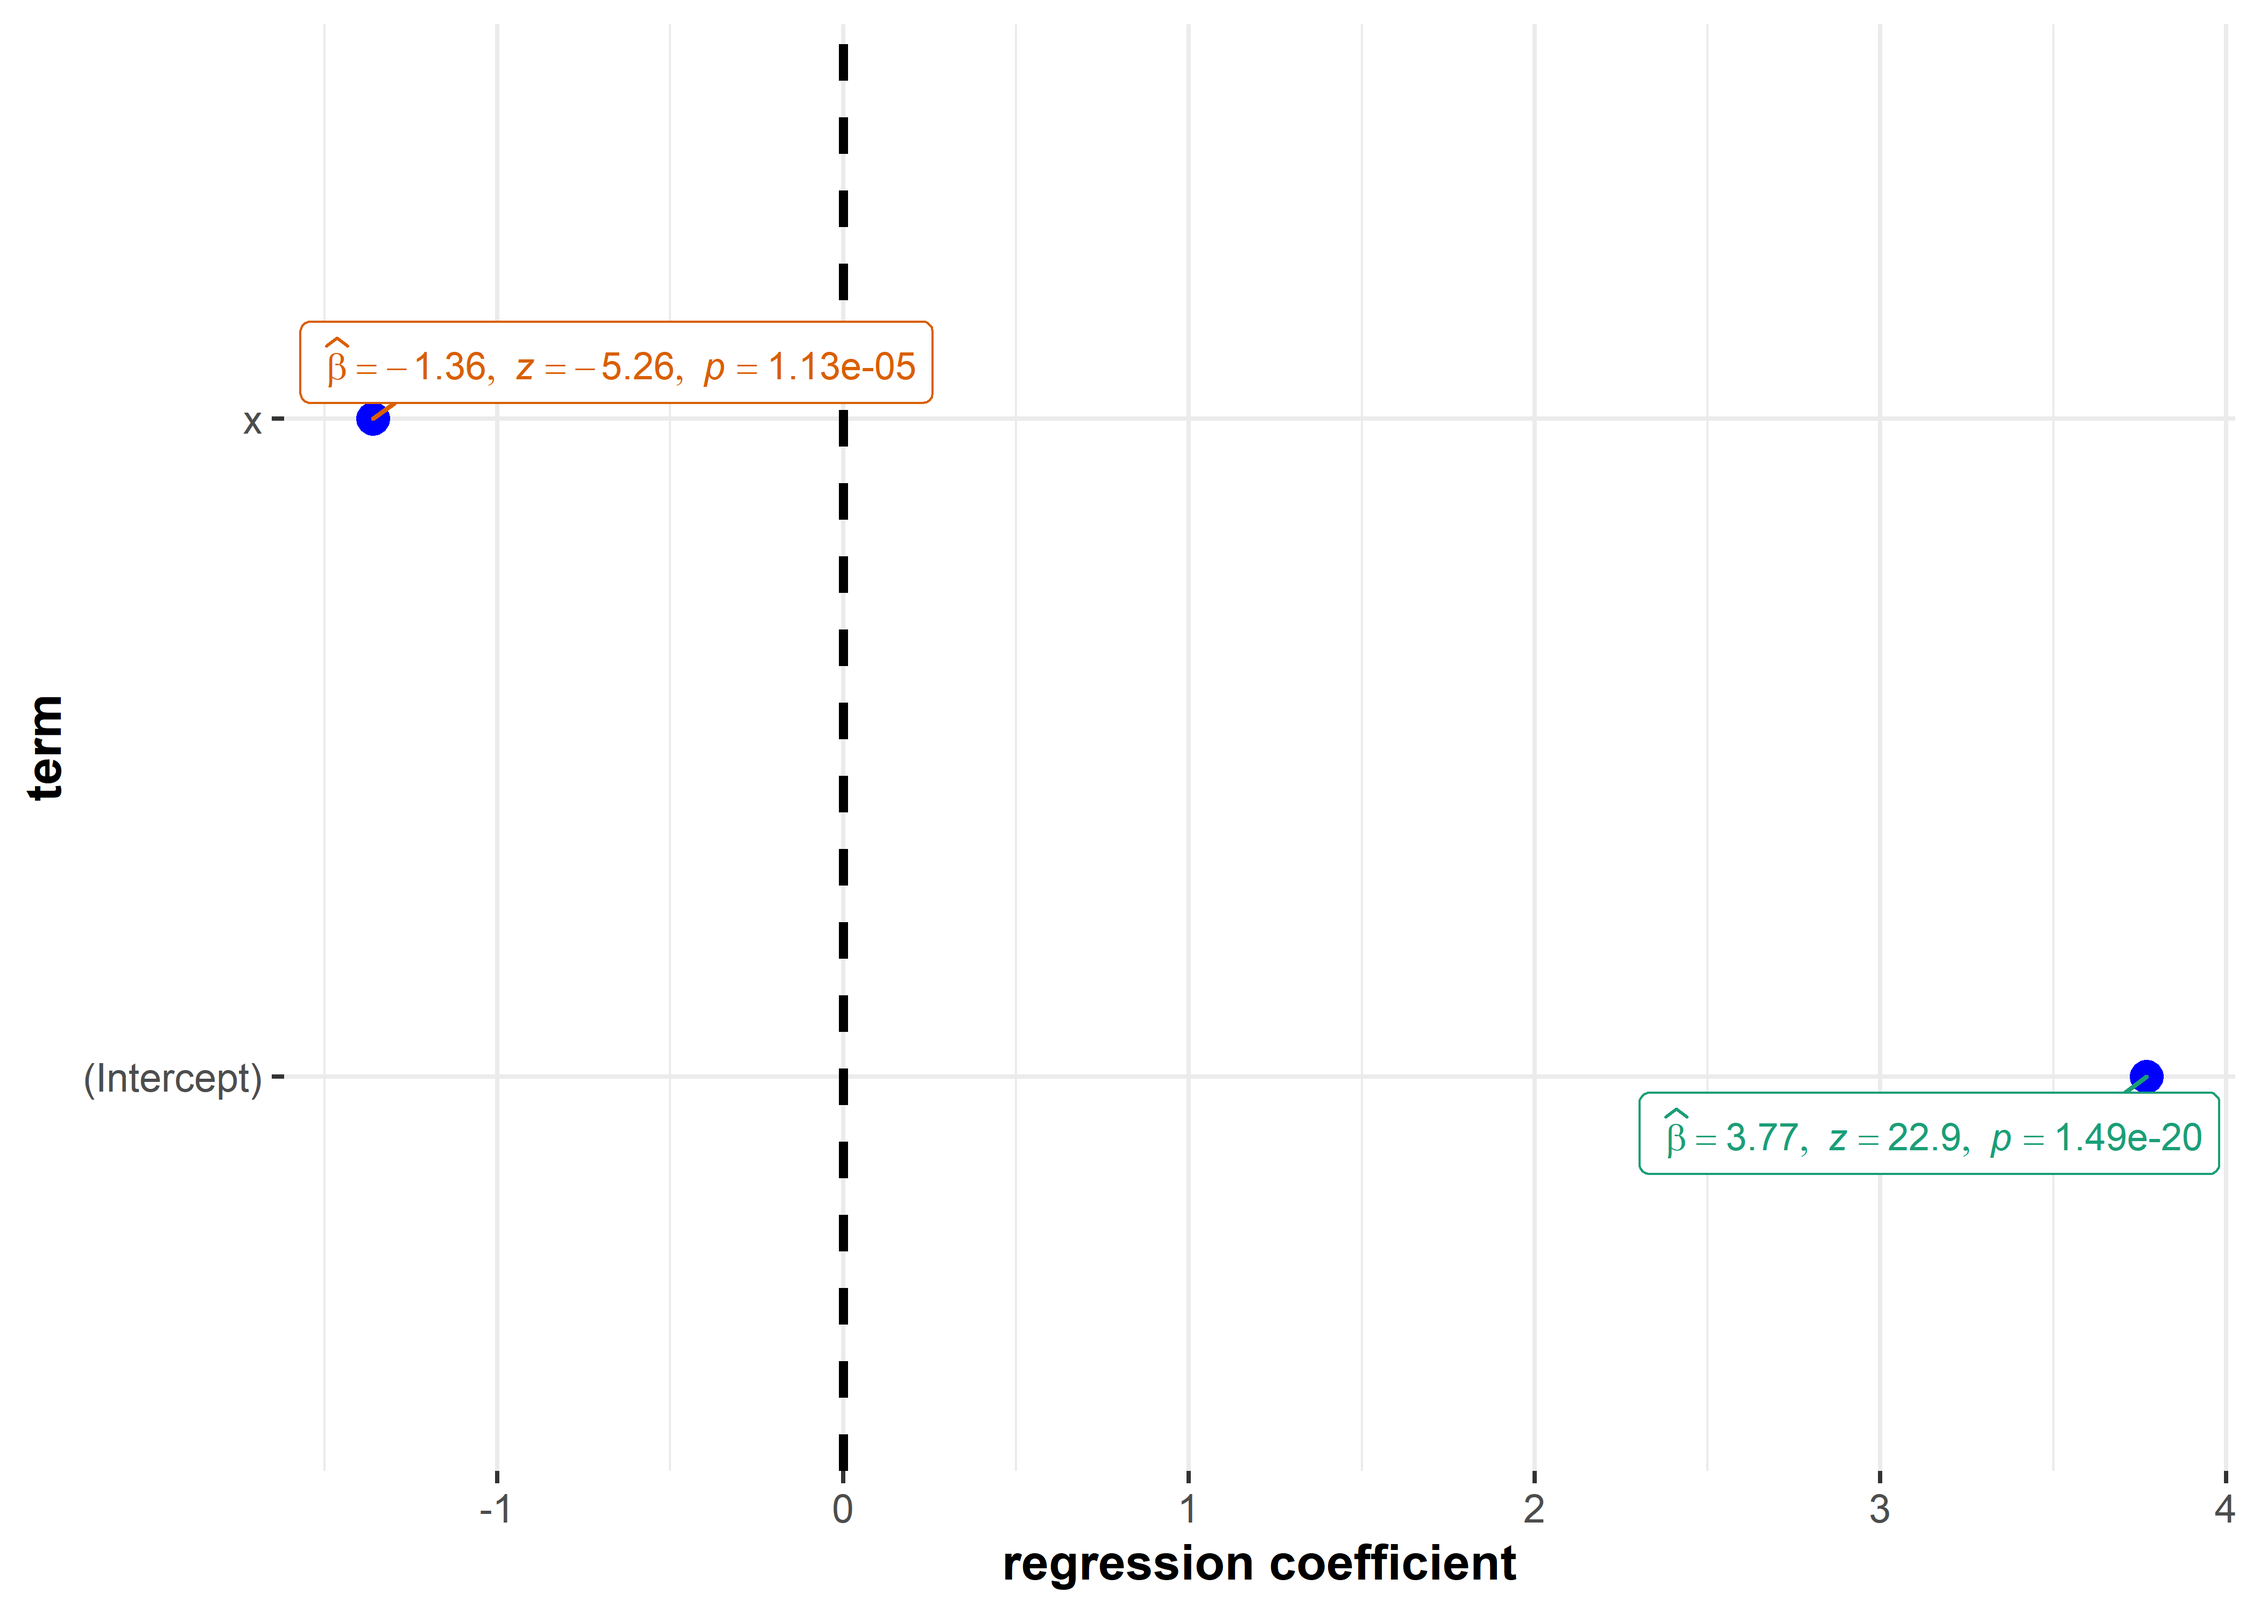
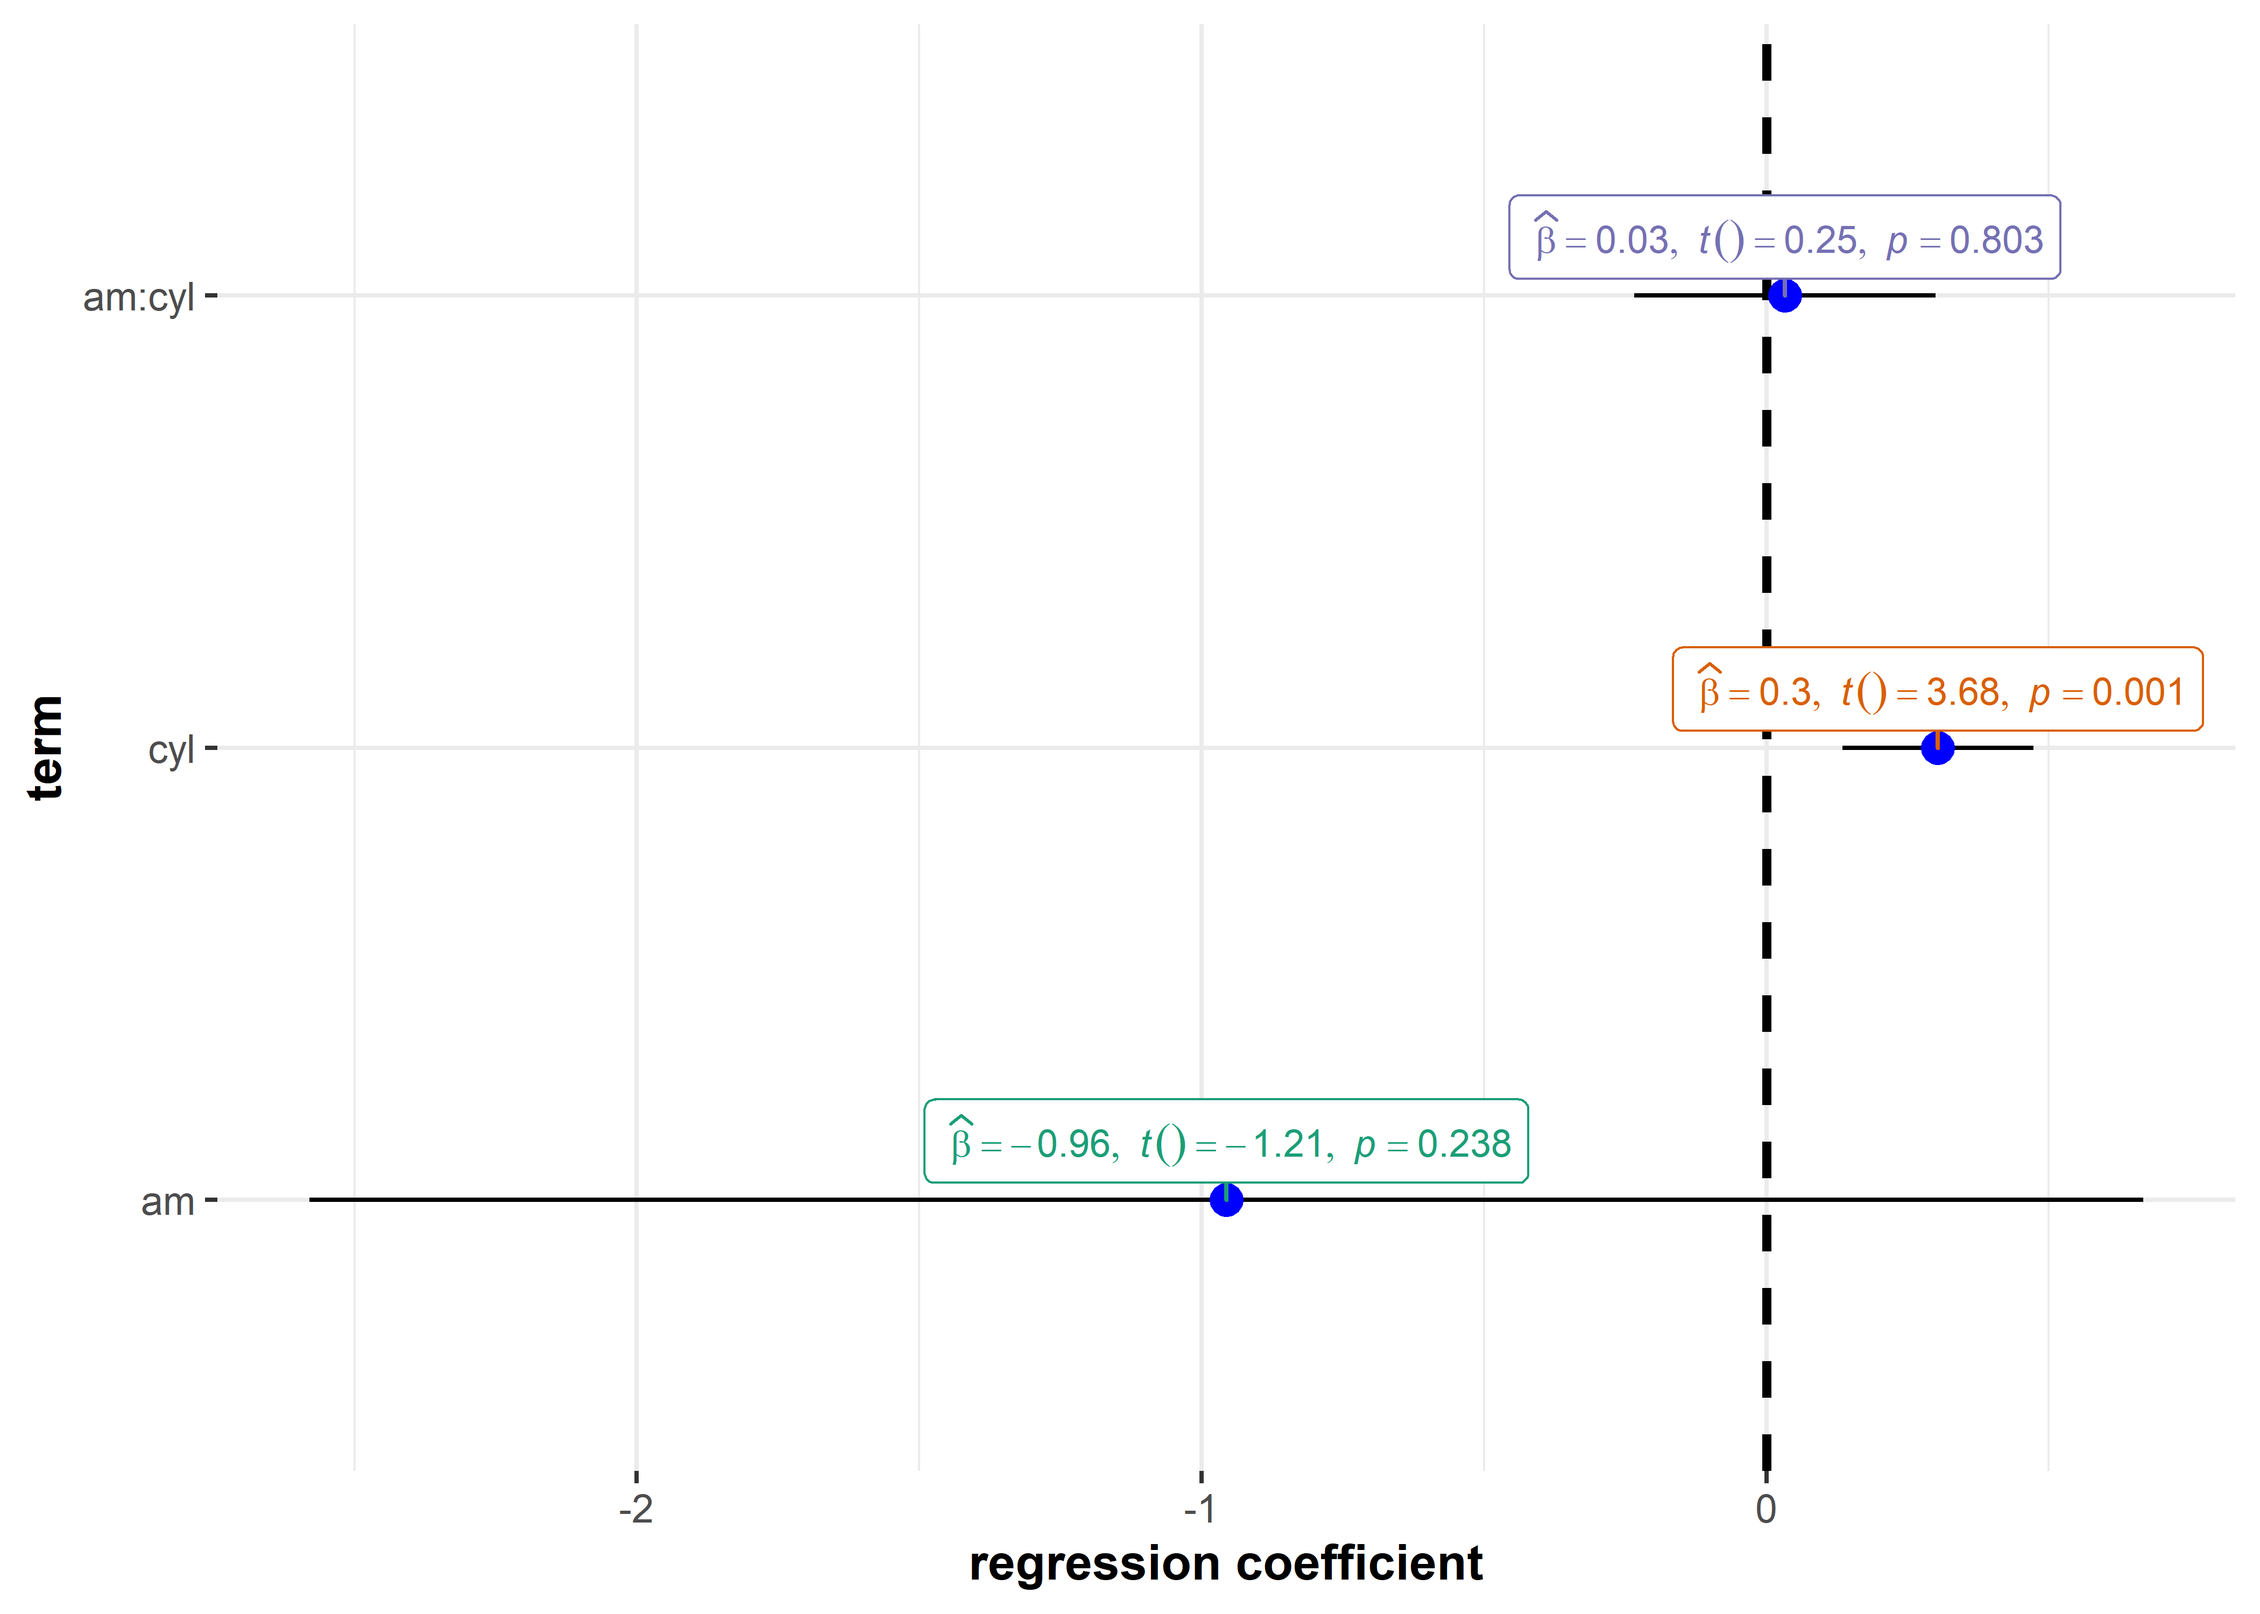
minor update

diff --git a/docs/slides/ggstatsplot_presentation.html b/docs/slides/ggstatsplot_presentation.html
@@ -17,7 +17,7 @@ class: center, middle, inverse, title-slide
 # <code>ggstatsplot</code>: <code>ggplot2</code> Based Plots with Statistical Details
 ## An Introductory Tutorial (version: 0.6.5)
 ### Indrajeet Patil
-### 2020-11-30<br><br>Follow along: <strong><a href="https://tinyurl.com/y376yz6o" class="uri">https://tinyurl.com/y376yz6o</a></strong>
+### 2020-12-01<br><br>Follow along: <strong><a href="https://tinyurl.com/y376yz6o" class="uri">https://tinyurl.com/y376yz6o</a></strong>
 
 ---
 
@@ -55,7 +55,7 @@ layout: false
 
 class: inverse, center, middle
 
-# Why **ggstatsplot**?
+# Why *ggstatsplot*?
 
 ---
 
@@ -113,15 +113,14 @@ layout: true
 &lt;br&gt;
 &lt;br&gt;
 &lt;br&gt;
-In a typical *exploratory* data analysis workflow, &lt;font color="blue"&gt;*data visualization*&lt;/font&gt; and &lt;font color="blue"&gt;*statistical modeling*&lt;/font&gt; are two different phases: visualization informs modeling,
+In a typical *exploratory* data analysis workflow, &lt;font color="blue"&gt;data visualization&lt;/font&gt; and &lt;font color="blue"&gt;statistical modeling&lt;/font&gt; are two different phases: visualization informs modeling,
 and modeling in its turn can suggest a different visualization method, and so
 on and so forth. 
 
 --
 
 The central idea of **ggstatsplot** is simple: combine these two phases into one
-in the form of graphics with statistical details, which makes data exploration
-simpler and faster.
+in the form of graphics with statistical detail for &lt;font color="blue"&gt;simpler&lt;/font&gt; and &lt;font color="blue"&gt;faster&lt;/font&gt; data exploration.
 
 ---
 
@@ -153,7 +152,7 @@ layout: true
 &lt;br&gt;
 &lt;br&gt;
 &lt;br&gt;
-.font150[“I plotted my data and what I found will surprise me!" - BuzzFeed]
+.font150[“I plotted my data and what I found surprised me!" - BuzzFeed]
 
 ---
 
@@ -164,8 +163,9 @@ layout: false
 --
 
 The **grammar of graphics** (implemented in `ggplot2`) is an incredibly powerful
-framework to prepare graphics and can help you make infinite number of graphics,
-each tailored for your specific data visualization problem! But...
+framework [(Wilkinson, 2011)](https://www.google.com/books/edition/_/iI1kcgAACAAJ?hl=en&amp;sa=X&amp;ved=2ahUKEwiGl8rJ2KztAhWyElkFHa8NAvkQre8FMBR6BAgMEAc) to prepare graphics and can help you make
+infinite number of graphics, each tailored for your specific data visualization
+problem! But...
 
 --
 
@@ -218,7 +218,7 @@ stats::cor.test(formula = ~ wt + mpg, data = mtcars)
 
 1.  consistently rely on a dataframe (e.g., `data, x, y, ...`)
 2.  expect the data to be in tidy format (Wickham, [2014](https://vita.had.co.nz/papers/tidy-data.pdf))
-3.  accept both `"quoted"` and `unquoted` arguments
+3.  accept both `"string"` and `symbols` as arguments
 
 ---
 
@@ -228,7 +228,7 @@ layout: false
 
 --
 
- For all statistical tests reported in the plots, the default template abides
+ For all statistical tests reported in the plots, the default template mostly abides
 by the [APA](https://my.ilstu.edu/~jhkahn/apastats.html) gold standard for
 statistical reporting. For example, here are results from a robust *t*-test:
 
@@ -756,14 +756,6 @@ In addition to `output = "plot"`,
 this function can also be used to
 get a &lt;font color="blue"&gt;dataframe&lt;/font&gt; of results:
 
-- `"r"` → **correlation**
-
-- `"p"` → **p-values**
-
-- `"n"` → **sample sizes**
-
-- `"ci"` → **confidence intervals**
-
 ]
 ]
 
@@ -1079,8 +1071,6 @@ get a &lt;font color="blue"&gt;dataframe&lt;/font&gt; of results:
 - `"tidy"` → **estimates**
 
 - `"glance"` → **model summary**
-
-- `"augment"` → **predictions**
 ]
 ]
 
@@ -1131,18 +1121,17 @@ layout: true
 
 ```r
 # dataframe with results
-df &lt;- tibble::tribble(
-  ~term, ~estimate, ~std.error, ~statistic, ~p.value,
-  "(Intercept)", 3.77, 0.165, 22.9, 1.49e-20,
-  "x", -1.36, 0.258, -5.26, 1.13e-5
-)
+df &lt;-
+  broom::tidy(
+    stats::lm(wt ~ am * cyl, mtcars),
+    conf.int = TRUE
+  )
 
 # plot
 # `statistic` argument decides label format
 ggcoefstats(
   x = df,
-* statistic = "z",
-  exclude.intercept = FALSE
+* statistic = "t"
 )
 ```
 
@@ -1151,6 +1140,7 @@ Supported statistic (for &lt;font color="blue"&gt;dataframe&lt;/font&gt; objects
 - *t*
 - *z*
 - *F*
+- `\(\chi^2\)`
 
 At the minimum, two
 columns needed - &lt;br&gt;&lt;font color="blue"&gt;term&lt;/font&gt; and &lt;font color="blue"&gt;estimate&lt;/font&gt;.
@@ -1159,12 +1149,6 @@ columns needed - &lt;br&gt;&lt;font color="blue"&gt;term&lt;/font&gt; and &lt;fo
 ]
 
 .right-plot[
-
-```
-## Note: No confidence intervals available for regression coefficients,
-##  so whiskers in the plot will be skipped.
-```
-
 &lt;img src="ggstatsplot_presentation_files/figure-html/ggcoefstats_2-1.png" width="100%" style="display: block; margin: auto;" /&gt;
 ]
 
@@ -1180,29 +1164,31 @@ layout: true
 
 ```r
 # made up data
-meta_df &lt;- tibble::tribble(
-  ~term, ~estimate, ~std.error,
-  "study_1", 0.111, 0.065,
-  "study_2", -0.003, 0.258,
-  "study_3", 0.001, 0.120,
-  "study_4", 0.032, 0.022,
-  "study_5", -0.765, 0.650,
-  "study_6", -0.032, 0.058
-)
+meta_df &lt;-
+  tibble::tribble(
+    ~term, ~estimate, ~std.error,
+    "study_1", 0.111, 0.065,
+    "study_2", -0.003, 0.258,
+    "study_3", 0.001, 0.120,
+    "study_4", 0.032, 0.022,
+    "study_5", -0.765, 0.650,
+    "study_6", -0.032, 0.058
+  )
 
 # plot
 ggcoefstats(
   x = meta_df,
 * meta.analytic.effect = TRUE,
-* bf.message = TRUE,
   xlab = "estimate"
 )
 ```
 
 .font80[
-- Frequentist random-effects meta-analysis from `metafor`
-- Bayesian random-effects meta-analysis from `metaBMA`
-- Robust random-effects meta-analysis from `metaplus`
+Changing the type of test
+
+- `"p"` → **parametric**
+- `"r"` → **robust**
+- `"bf"` → **bayes factor**
 ]
 
 ]
@@ -1235,7 +1221,7 @@ layout: true
 
 # *grouped_* functions
 
-You can repeat the same analysis for all levels of a single grouping variable.
+You can repeat the same analysis for all levels of a **single** grouping variable.
 
 ---
 
@@ -1707,7 +1693,6 @@ class: inverse, center, middle
 [github.com/IndrajeetPatil](https://github.com/IndrajeetPatil) &lt;br&gt;
 patilindrajeet.science@gmail.com
 ]
-
 
 ---
 
